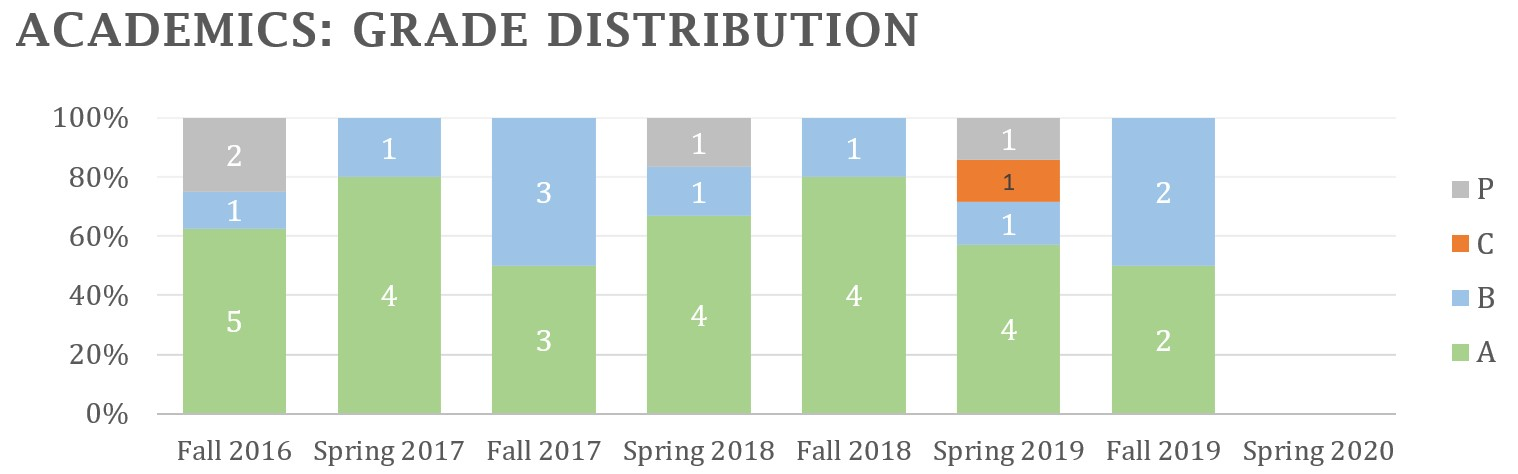
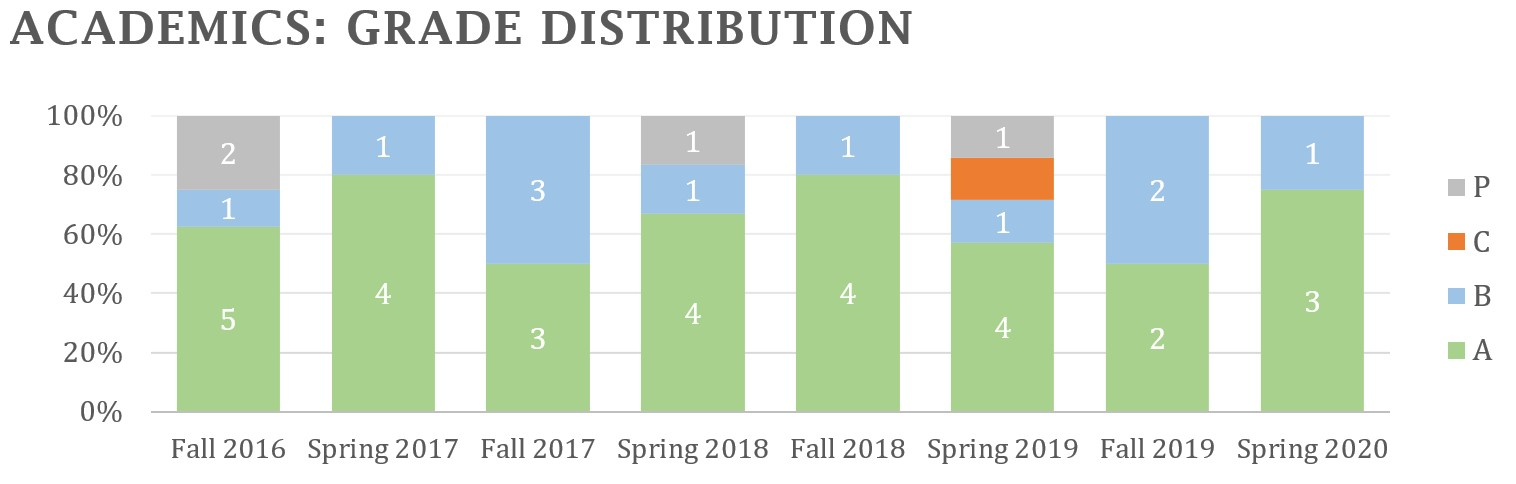
Update with OS grades.

diff --git a/content/blog/2020-05-12-my-life-in-numbers.md b/content/blog/2020-05-12-my-life-in-numbers.md
@@ -31,7 +31,7 @@ Information derived from a double-entry bookkeeping Excel sheet that I've been m
 - Cost of living has an approximate min/avg/max of 50/300/500 depending on how often I cook and on how budget conscious I'm being that month. I ate out a lot during my summer at Amazon. To put these numbers into context, one meal out in Pittsburgh is about USD 10.
 - Cost of internship is something that annoys me a little about CMU. As an international student, to obtain CPT work authorization you must be enrolled in a 3-unit course and pay summer tuition rates for those three units. Domestic students have no such fees. This was a factor in my decision to pursue SURF instead of interning at a startup.
 - The nature of my rental at 5620 Woodmont St is best summarized as unfortunate. It should have cost around high 9k instead of the current low 15k. I think my main takeaway from this is to avoid living with or planning around other people, since I would like to continue otherwise trusting people by default.
-- Figures for academics will be updated when grades are posted.
+- Figures for academics will be updated when grades are posted. *Updated 2020-05-21*.
 
 ---
 

diff --git a/content/courses-reviews.md b/content/courses-reviews.md
@@ -16,10 +16,10 @@ Format of (Grade Obtained, Star Rating, Course).
 
 ## Spring 2020
 
-- ☆☆ 15-410 Operating System Design and Implementation
-- 15-780 Graduate Artificial Intelligence
-- 21-301 Combinatorics
-- 33-120 Science and Science Fiction
+- **A** ☆☆ 15-410 Operating System Design and Implementation
+- **A** 15-780 Graduate Artificial Intelligence
+- **B** 21-301 Combinatorics
+- **A** 33-120 Science and Science Fiction
 
 Other commitments: essentially nothing  
 Overall: heavy
